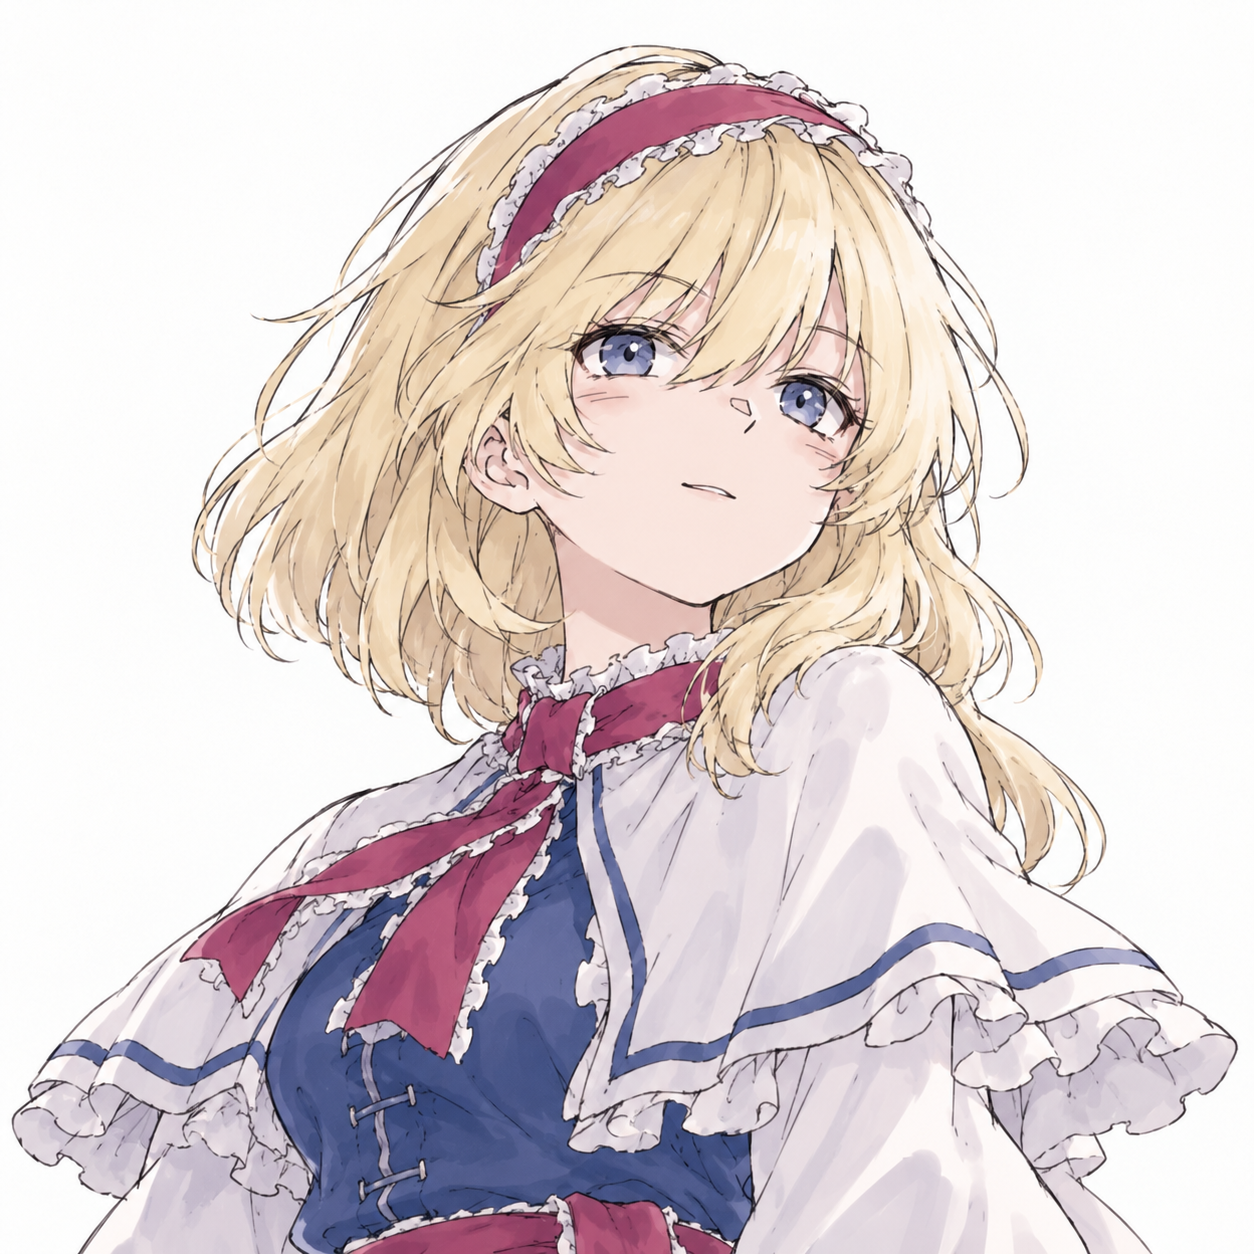
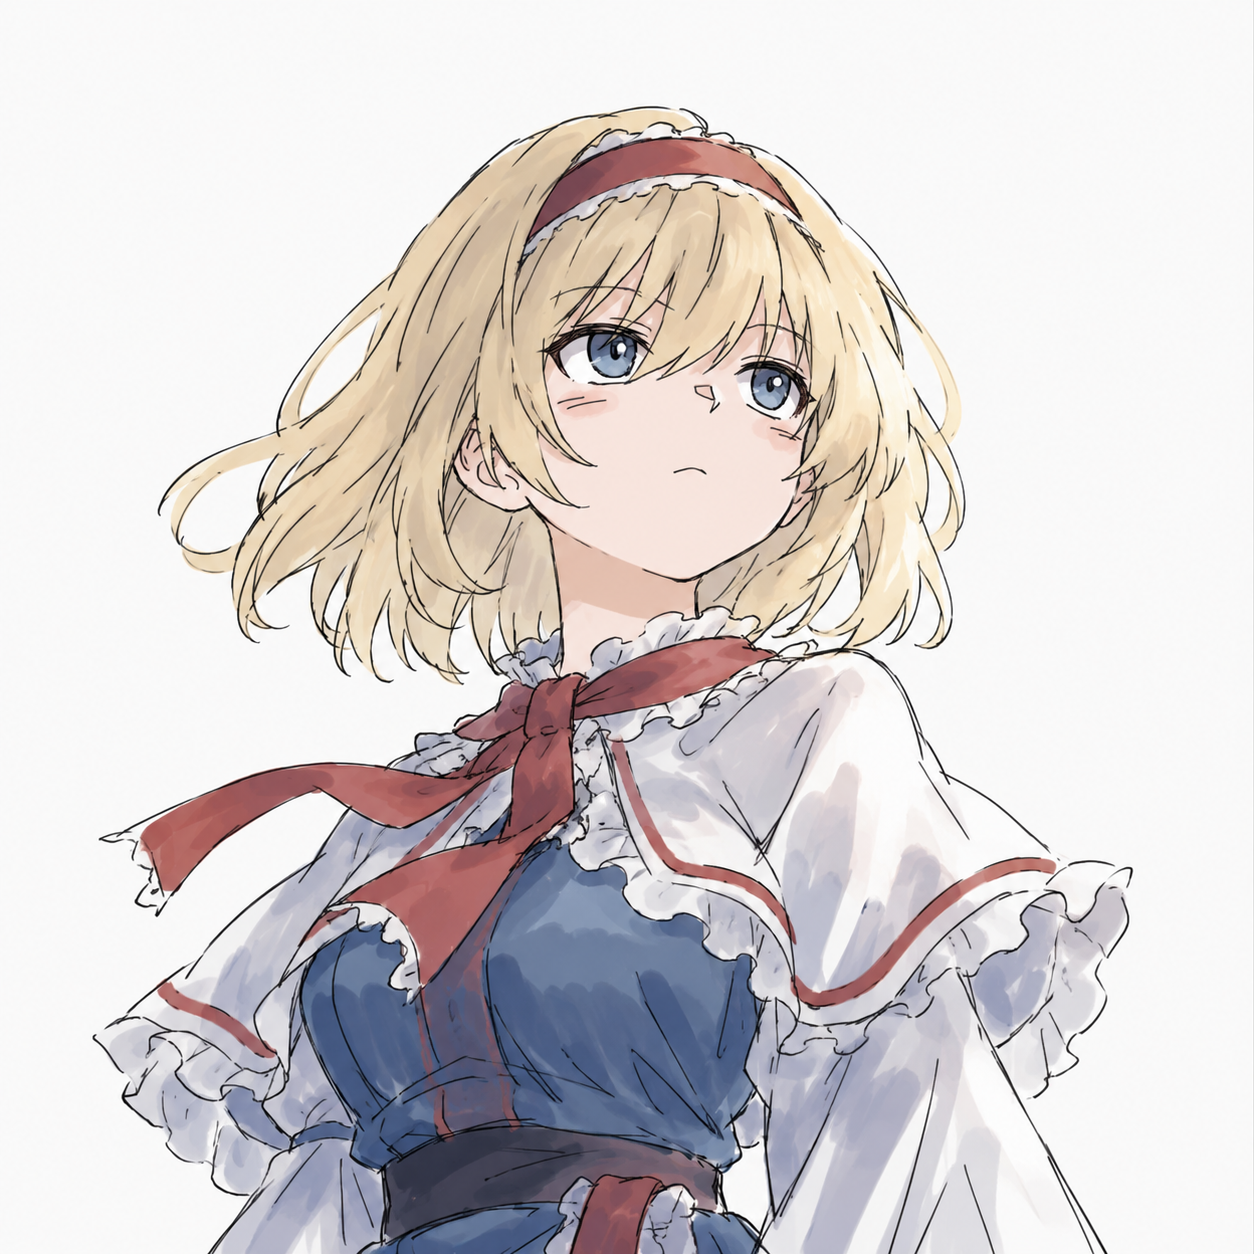
Use supplied Alice portrait and add character-specific pixel frames

diff --git a/assets/css/classic-site.css b/assets/css/classic-site.css
@@ -519,24 +519,104 @@ body.gallery-page.classic-site .page__content h1::before {
   perspective: none;
 }
 .profile_box .author__avatar-frame {
+  --portrait-thread: #b88292;
+  --portrait-stitch: 1px;
   width: 100%;
-  padding: 3px;
-  border: 1px solid var(--border);
+  padding: 8px;
+  border: 1px solid var(--classic-edge-light);
   border-radius: 0;
   background: var(--classic-document);
-  box-shadow: none;
-  transform: none;
-  transform-style: flat;
-  will-change: auto;
+  box-shadow:
+    inset 0 0 0 2px var(--classic-edge-dark),
+    2px 2px 0 var(--classic-edge-dark);
+}
+html[data-live2d-character="marisa"] .author__avatar-frame {
+  --portrait-thread: #c4a367;
+  --portrait-stitch: 3px;
+}
+html[data-live2d-character="patchouli"] .author__avatar-frame {
+  --portrait-thread: #b492be;
+  --portrait-stitch: 2px;
+}
+.author__avatar-frame::before {
+  content: "";
+  position: absolute;
+  inset: 3px;
+  border: 1px solid var(--classic-edge-mid);
+  background:
+    repeating-linear-gradient(
+        90deg,
+        var(--portrait-thread) 0 var(--portrait-stitch),
+        transparent var(--portrait-stitch) 6px
+      )
+      top center / calc(100% - 40px) 1px no-repeat,
+    repeating-linear-gradient(
+        90deg,
+        var(--portrait-thread) 0 var(--portrait-stitch),
+        transparent var(--portrait-stitch) 6px
+      )
+      bottom center / calc(100% - 40px) 1px no-repeat;
+  pointer-events: none;
+}
+.author__avatar-frame::after {
+  content: "";
+  position: absolute;
+  inset: 0;
+  background:
+    linear-gradient(var(--classic-accent), var(--classic-accent)) top right /
+      17px 2px no-repeat,
+    linear-gradient(var(--classic-accent), var(--classic-accent)) top right /
+      2px 17px no-repeat,
+    linear-gradient(var(--classic-accent), var(--classic-accent)) bottom left /
+      17px 2px no-repeat,
+    linear-gradient(var(--classic-accent), var(--classic-accent)) bottom left /
+      2px 17px no-repeat;
+  pointer-events: none;
 }
 .author__avatar-media {
-  border-radius: 0;
-  transform: none;
+  border: 1px solid var(--classic-edge-dark);
 }
-.author__avatar-aura,
-.author__avatar-shine,
-.author__avatar-corner {
+.author__avatar-ornaments {
+  position: absolute;
+  inset: 0;
+  pointer-events: none;
+}
+[data-avatar-decoration] {
   display: none;
+}
+html[data-live2d-character="alice"] [data-avatar-decoration="alice"],
+html[data-live2d-character="marisa"] [data-avatar-decoration="marisa"],
+html[data-live2d-character="patchouli"] [data-avatar-decoration="patchouli"] {
+  display: contents;
+}
+.author__avatar-sigil,
+.author__avatar-crest {
+  position: absolute;
+  display: block;
+  background: var(--classic-document);
+  border: 1px solid var(--classic-edge-light);
+  box-shadow: 1px 1px 0 var(--classic-edge-dark);
+}
+.author__avatar-sigil {
+  top: 0;
+  left: 0;
+  width: 24px;
+  height: 24px;
+  padding: 3px;
+}
+.author__avatar-crest {
+  right: 0;
+  bottom: 0;
+  width: 38px;
+  height: 38px;
+  padding: 6px;
+  outline: 2px solid var(--classic-document);
+  outline-offset: -3px;
+}
+.author__avatar-crest svg {
+  display: block;
+  width: 100%;
+  height: 100%;
 }
 .profile_box .author__avatar-frame .author__avatar-image {
   width: 100%;
@@ -1050,6 +1130,19 @@ body.live2d-is-hidden .classic-companion-mobile-dock {
   .profile_box .author__avatar {
     grid-column: 1;
     grid-row: 1;
+  }
+  .profile_box .author__avatar-frame {
+    padding: 6px;
+  }
+  .author__avatar-sigil {
+    width: 20px;
+    height: 20px;
+    padding: 1px;
+  }
+  .author__avatar-crest {
+    width: 28px;
+    height: 28px;
+    padding: 3px;
   }
   .profile_box .author__content {
     grid-column: 2;

diff --git a/_includes/avatar-ornaments.html b/_includes/avatar-ornaments.html
@@ -1,0 +1,58 @@
+{% comment %}Original integer-grid ornaments. Decorative only; the portrait remains the accessible image.{% endcomment %}
+<div class="author__avatar-ornaments" aria-hidden="true">
+  <span data-avatar-decoration="alice">
+    <svg class="author__avatar-sigil" viewBox="0 0 16 16" focusable="false" shape-rendering="crispEdges">
+      <path fill="#ca959d" d="M1 3h3v1h2v2h4V4h2V3h3v8h-3v-1h-2V8H6v2H4v1H1z"/>
+      <path fill="#f2c6c5" d="M2 4h2v1h2v1H3v3H2zm10 0h2v5h-1V6h-3V5h2z"/>
+      <path fill="#8d526a" d="M6 6h4v3H6zm0 3h2v4H5v-2h1zm2 0h2v2h1v2H8z"/>
+      <path fill="#f0d6be" d="M7 6h2v2H7z"/>
+    </svg>
+    <span class="author__avatar-crest">
+      <svg viewBox="0 0 24 24" focusable="false" shape-rendering="crispEdges">
+        <path fill="#d2b879" d="M8 3h8v2h2v8h-3V8H9v5H6V5h2z"/>
+        <path fill="#f3deb8" d="M9 5h6v6H9z"/>
+        <path fill="#344156" d="M10 7h1v1h-1zm3 0h1v1h-1z"/>
+        <path fill="#bc7d88" d="M8 2h8v2H8zm2 9h4v2h-4z"/>
+        <path fill="#87adc9" d="M8 12h8v3h2v4h2v2H4v-2h2v-4h2z"/>
+        <path fill="#ede4d2" d="M8 12h2v3H8zm6 0h2v3h-2zM5 19h14v2H5z"/>
+        <path fill="#cf9aa4" d="M7 16h10v2H7z"/>
+        <path fill="#d1b68f" d="M8 21h3v2H8zm5 0h3v2h-3z"/>
+      </svg>
+    </span>
+  </span>
+  <span data-avatar-decoration="marisa">
+    <svg class="author__avatar-sigil" viewBox="0 0 16 16" focusable="false" shape-rendering="crispEdges">
+      <path fill="#e5c47e" d="M7 1h2v3h1v1h5v2h-2v2h-2v2h1v4H9v-2H7v2H4v-4h1V9H3V7H1V5h5V4h1z"/>
+      <path fill="#fff0c1" d="M7 4h2v3H6v2H4V7h3z"/>
+      <path fill="#a8824d" d="M9 8h2v2h-1v3H9v-2H7V9h2z"/>
+    </svg>
+    <span class="author__avatar-crest">
+      <svg viewBox="0 0 24 24" focusable="false" shape-rendering="crispEdges">
+        <path fill="#bd9c67" d="M12 1h6v3h-3v3h2v4h2v5h4v5H1v-5h4v-4h2V7h2V4h3z"/>
+        <path fill="#34323c" d="M13 2h4v1h-3v4h2v4h2v6h4v3H2v-3h4v-5h2V7h2V5h3z"/>
+        <path fill="#53505b" d="M11 7h2v5h2v3H9v-3h1V9h1z"/>
+        <path fill="#ece3d1" d="M7 14h10v3H7z"/>
+        <path fill="#f4ecdc" d="M13 12h2v1h2v2h2v-2h2v5h-2v-1h-2v2h-2v-2h-2z"/>
+        <path fill="#baaa92" d="M16 14h2v3h-2z"/>
+      </svg>
+    </span>
+  </span>
+  <span data-avatar-decoration="patchouli">
+    <svg class="author__avatar-sigil" viewBox="0 0 16 16" focusable="false" shape-rendering="crispEdges">
+      <path fill="#d6bb86" d="M6 1h4v2H7v2H5v6h2v2h5v-2h2v3h-3v1H5v-2H3v-2H2V5h1V3h3z"/>
+      <path fill="#f5deb1" d="M6 2h2v1H6v2H4v5H3V5h1V3h2z"/>
+      <path fill="#c7b2e8" d="M12 3h2v2h2v2h-2v2h-2V7h-2V5h2z"/>
+    </svg>
+    <span class="author__avatar-crest">
+      <svg viewBox="0 0 24 24" focusable="false" shape-rendering="crispEdges">
+        <path fill="#b397cc" d="M4 2h16v2h1v18H4v-1H2V4h2z"/>
+        <path fill="#755e94" d="M6 3h13v15H6z"/>
+        <path fill="#493c69" d="M4 4h2v16H4z"/>
+        <path fill="#e7dac5" d="M6 19h13v2H6z"/>
+        <path fill="#d0b784" d="M12 6h3v2h-3v4h3v-1h2v3h-6v-2H9V8h1V7h2z"/>
+        <path fill="#d7b2c7" d="M16 19h2v5l-1-1-1 1z"/>
+        <path fill="#c0a7db" d="M7 4h10v1H7zm0 12h10v1H7z"/>
+      </svg>
+    </span>
+  </span>
+</div>

diff --git a/_includes/classic-credits.html b/_includes/classic-credits.html
@@ -2,6 +2,6 @@
   <div class="classic-footer-row"><span>© {{ site.time | date: '%Y' }} {{ site.author.name }}</span><span>Made with Jekyll · <a href="https://github.com/luost26/academic-homepage-nostalgia-1990s">Nostalgia 1990s</a></span></div>
   <details class="classic-credits">
     <summary>Template &amp; artwork credits</summary>
-    <p>Layout adapted from Shitong Luo's <a href="https://github.com/luost26/academic-homepage-nostalgia-1990s">academic-homepage / Nostalgia 1990s</a> (MIT). Windows 98 icons from <a href="https://win98icons.alexmeub.com/">Alex Meub's collection</a>. W95FA by MadeByArne, <a href="{{ '/assets/fonts/classic/W95FA-OFL.txt' | relative_url }}">SIL OFL 1.1</a>. Japanese dialogue uses <a href="https://github.com/TakWolf/fusion-pixel-font">Fusion Pixel</a> by TakWolf (<a href="{{ '/assets/fonts/fusion-pixel/OFL.txt' | relative_url }}">SIL OFL 1.1</a>). Unmodified Windows 98 cursors by VladYtRO: <a href="https://www.rw-designer.com/cursor-detail/128661">Cursor79</a> / <a href="https://www.rw-designer.com/cursor-detail/128675">Cursor107</a>. Alice’s portrait and companion scene artwork generated for this site; new conversations are fan-written. Live2D models: <a href="https://github.com/n0099/TouhouCannonBall-Live2d-Models">Touhou Cannonball archive</a>.</p>
+    <p>Layout adapted from Shitong Luo's <a href="https://github.com/luost26/academic-homepage-nostalgia-1990s">academic-homepage / Nostalgia 1990s</a> (MIT). Windows 98 icons from <a href="https://win98icons.alexmeub.com/">Alex Meub's collection</a>. W95FA by MadeByArne, <a href="{{ '/assets/fonts/classic/W95FA-OFL.txt' | relative_url }}">SIL OFL 1.1</a>. Japanese dialogue uses <a href="https://github.com/TakWolf/fusion-pixel-font">Fusion Pixel</a> by TakWolf (<a href="{{ '/assets/fonts/fusion-pixel/OFL.txt' | relative_url }}">SIL OFL 1.1</a>). Unmodified Windows 98 cursors by VladYtRO: <a href="https://www.rw-designer.com/cursor-detail/128661">Cursor79</a> / <a href="https://www.rw-designer.com/cursor-detail/128675">Cursor107</a>. Portrait artwork supplied by the site owner; companion scene artwork generated for this site; new conversations are fan-written. Live2D models: <a href="https://github.com/n0099/TouhouCannonBall-Live2d-Models">Touhou Cannonball archive</a>.</p>
   </details>
 </div>

diff --git a/_includes/author-profile.html b/_includes/author-profile.html
@@ -10,6 +10,7 @@
         <img src="{{ '/images/avatars/alice-portrait.png' | relative_url }}" class="author__avatar-image" data-avatar-character="alice" data-avatar-theme="light" alt="" decoding="async">
         <img src="{{ '/images/avatars/patchouli-portrait.png' | relative_url }}" class="author__avatar-image" data-avatar-character="patchouli" data-avatar-theme="light" alt="" decoding="async">
       </div>
+      {% include avatar-ornaments.html %}
     </div>
   </div>
 

diff --git a/README.md b/README.md
@@ -3,13 +3,13 @@
 This branch adapts [academic-homepage's Nostalgia 1990s variant](https://github.com/luost26/academic-homepage-nostalgia-1990s) to the existing personal site. Content, URLs, gallery data, publications, weather and Live2D interactions remain in their original Jekyll files.
 
 - Alice, Marisa and Patchouli use blue-grey, warm-gold and muted-violet night palettes within the classic Windows 95/98 frame. Use the three pixel portraits in the header to select a theme; the choice persists across pages and reloads.
-- Marisa and Patchouli use the supplied new portraits. Alice retains the original daytime portrait. The site now defaults to the dark desktop appearance, including before JavaScript runs; the supplied portraits stay the same across the interface change.
+- All three characters use portraits supplied by the site owner, including the updated Alice illustration. Each frame has original pixel ornaments: Alice's ribbon and doll, Marisa's star and witch hat, and Patchouli's crescent and grimoire. Frames follow the selected palette and use smaller ornaments on mobile.
 - The homepage music player has been removed; the doujin music link remains.
 - Gallery thumbnails use a consistent 4:3 crop; the full-size viewer preserves each original aspect ratio.
 - Gallery uses the template’s native showcase/archive organization. Notes and Thoughts retain their original source files. Jekyll renders gallery cards from the existing YAML, so images and original-image links also work without JavaScript. The viewer enhances these links with a thumbnail placeholder while full-size files decode, keyboard navigation and focus containment.
 - The PC-98-style Live2D window docks below the in-page navigation in the profile rail on desktop and can be dragged, minimized or closed. Double-click the title bar, press Home, or use 設定 → 元の位置へ to reset. Mobile/tablet starts hidden; **Options → Live2D を開く** opens it at the page bottom below the section index. Desktop and mobile visibility preferences are independent. Half-body framing, three softly defocused scenes and subtle ambient light accompany the original models.
 - The interface and body use W95FA, with 17px desktop body text. Japanese dialogue and menus use locally hosted Fusion Pixel (SIL OFL). Original pixel character icons and low-contrast ribbon/star/moon night wallpaper change with each palette. Portraits use a closer crop; contact icons share a 16-pixel grid. SVG source artwork is in `assets/images/classic/characters/` and `patterns/`.
-- Alice's redrawn portrait matches the supplied Marisa/Patchouli portraits; its generation prompt is retained beside `images/avatars/alice-portrait.png`. All 135 companion lines have explicit facial expressions and body poses using the original three models, including Patchouli's book gestures. Expressions persist through reading, and rapid dialogue changes retain the latest requested pose.
+- All 135 companion lines have explicit facial expressions and body poses using the original three models, including Patchouli's book gestures. Expressions persist through reading, and rapid dialogue changes retain the latest requested pose.
 - **弾幕に挑戦** opens a pixel score-attack game inside the companion. Alice, Marisa and Patchouli each have a distinct pilot shot type and enemy pattern; all nine matchups have separate local records. Infinite-health opponents increase bullet density over time. Keyboard/touch movement, auto-fire, graze scoring, three lives, two spirit strikes, pause and retry are included. [Game rules and implementation](docs/danmaku-game.md).
 - The reading layout uses theme-colored pixel section icons, an education timeline, publication metadata beside unobstructed previews, and a section index that follows the current reading position. Gallery collections include image counts; all previews keep the same crop.
 - The Japanese-only companion has 99 everyday/holiday lines with light character-voice edits and 18 unchanged original game quotations. **友人のこと** contains 18 short remarks about a focused circle of 11 characters/groups (Alice 5, Marisa 8, Patchouli 5), selected for established interactions. Four affinity tiers, branching replies, seven holiday groups, weather/time context, typewriter text, auto advance and history remain. **設定** controls affinity, text speed and ambient light, including a 0–100% strength slider for scene-colored model lighting; source/subtitle/help metadata has been removed from the interface. Details: [companion system](docs/companion-system.md).

diff --git a/docs/companion-system.md b/docs/companion-system.md
@@ -70,7 +70,7 @@ Alice uses restrained invitations and a thinking pose for craft; Marisa uses her
 
 Body transitions use the rig's authored `from+to` motion and its actual duration. The destination's static pose/hand layers are then held, with small breathing and bounded pointer focus. Fast next/topic clicks retain only the latest requested pose after the current transition, while the face changes immediately. Patchouli's former idle-only gate is removed. Reduced-motion preferences keep the authored face and pose but apply them without animated transitions. Character changes invalidate pending motion callbacks, and resizing/navigation keep the current performance.
 
-The redrawn Alice portrait is `images/avatars/alice-portrait.png`, made with built-in imagegen using the supplied Marisa/Patchouli portraits as style references. Its [full prompt](../images/avatars/alice-portrait.prompt.txt) is retained next to the asset. The previous Alice image remains available, but is no longer the active avatar.
+All three active portraits in `images/avatars/` are supplied by the site owner. The Alice portrait was replaced with the supplied illustration on 2026-10-08; the earlier generated version is retained in Git history. Original pixel ribbon/doll, star/hat and crescent/book ornaments live in `_includes/avatar-ornaments.html`; `classic-site.css` owns their responsive frames and switches them with the character palette. The portrait stays square with a closer crop, while the ornaments are decorative and excluded from the accessibility tree.
 
 ## Code map
 
